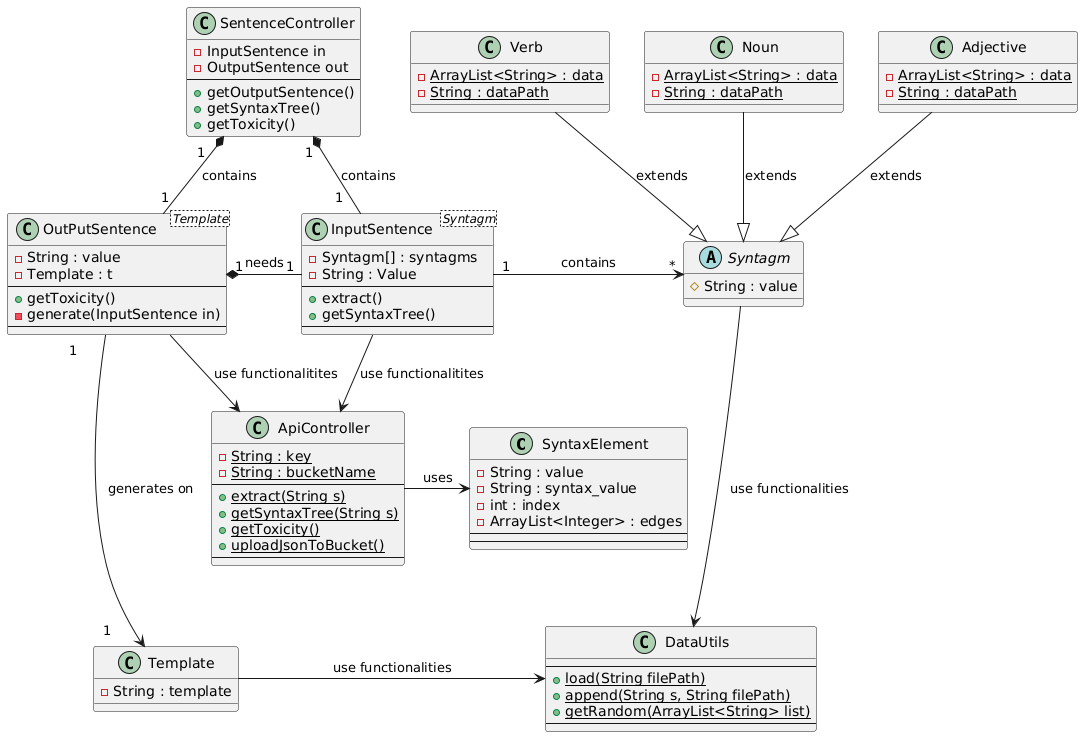
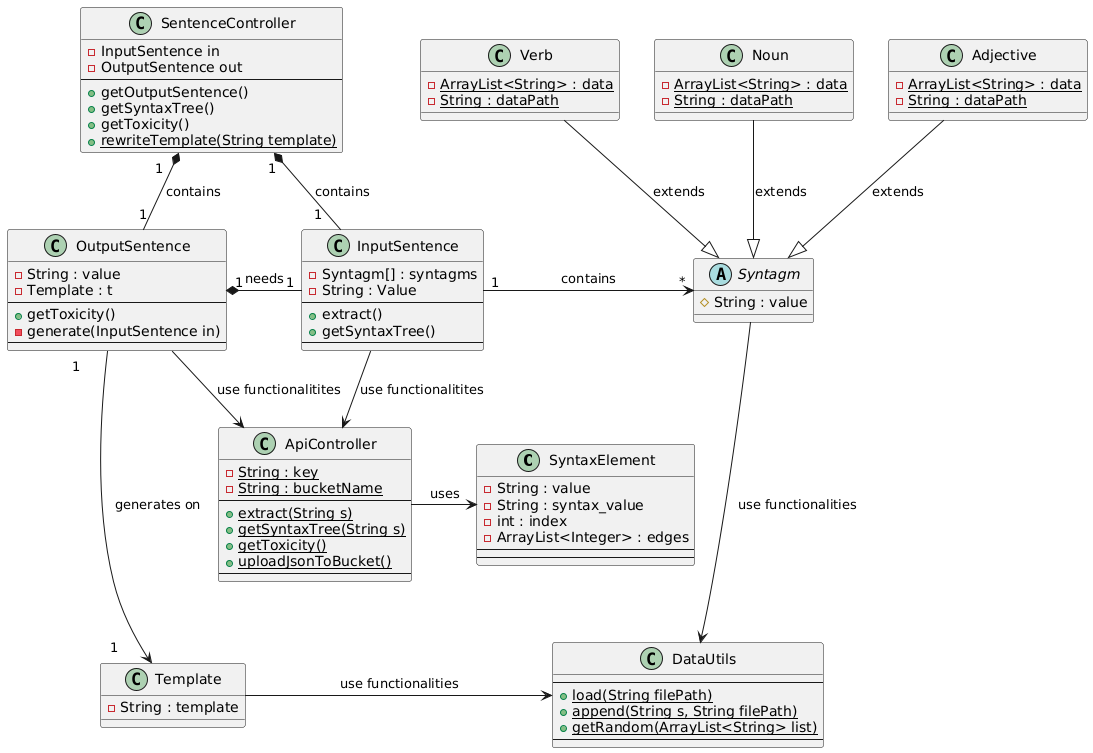
Updated design document and fixed diagrams

diff --git a/docs/Design document.md b/docs/Design document.md
@@ -1,0 +1,110 @@
+*Gruppo 63616E617A7A61, Elementi di ingegneria del Software*.
+
+# Design document - Nonsense generator
+
+## Index: 
++ ### [<ins>Domain model</ins>](#domain-model-1)
++ ### [<ins>Class diagram</ins>](#class-diagram-1)  
+    + [System description](#system-description)
++ ### [<ins>Sequence diagrams</ins>](#sequence-diagrams-1)
+    + #### [System sequence diagram](#system-sequence-diagram-1)
+    + #### [Internal sequence diagrams](#internal-sequence-diagrams-1)
+        + ##### [SentenceController](#sentencecontroller-1)
+        + ##### [InputSentence](#inputsentence-1)
+        + ##### [OutputSentence](#outputsentence-1)
+        + ##### [Initialization of built-in dictionary and template list](#initialization-of-built-in-dictionary-and-template-list-1)
+
+## *Domain model*
+![img](./Domain%20model/Domain%20model.png)
+
+#### Description:   
+>The user of Nonsense generator interacts directly with a UI layer. below it there are multiple controllers that forward the requests of the user to the logical components of the system and makes it so the data is formatted correctly when needed to be presented to the user.
+The majority of the actors are those that constitute the internal layer of the system that is responsable for the actual logical computation requiered to execute all operations.
+
+## *Class diagram*
+![img](./Class%20diagram/Class%20diagram.png)
+
+### System description:
+
++  > <ins>**Syntagm</ins>:**  
+Abstract class used to represent a syntagm of a sentence that is later categorized int a verb, noun or adjective. Syntagm stores a human readable word in its ***value*** field.
+Syntagm is mainly used in the <code>extract()</code> method in the ***InputSentence*** class to divide the syntagms of a given sentence.
+
++ > <ins>**Verb</ins>, <ins>Noun</ins>, <ins>Adjective</ins>:** 
+***Verb***, ***Noun*** and ***Adjective*** are all classes that extend the abstract class ***Syntagm*** and are used to provide an internal dictionary for the system.
+Each one of these classes contains a ***data*** of ArrayList<String> used to save a list of words loaded from a text file via the ***load(String filePath)*** provided by the utility class ***DataUtils***.
+The generation of a random word from the loaded list is supported in the constructor of these classes by using the ***getRandom(ArrayList<String> list)*** of class ***DataUtils*** should the new object be instantiated without a specific word.
+
++ > <ins> **ApiController:** </ins>
+Utility class that interacts directly with Google Cloud API by compiling and sending different types of requests based by instructions received from ***InputSentence*** and ***OutputSentence***.
+The class provides also the ability to log generated sentences in a json file that is stored in a cloud bucket via the method ***uploadjsonToBucket()***. 
+
++ > <ins> **SyntaxElement:** </ins>
+Class that represent a single syntactic element used in the creation of the syntax tree of the sentence. The class contains descriptive fields ***value*** and ***syntax_value***. The ***index*** field is meant to specify the position of a ***SyntaxElement*** in a ***ArrayList<SyntaxElement>*** while ***edges*** contains the positions of other nodes that form edges with the selected one.
+
++ > <ins> **DataUtils**: </ins>
+Utility class used to provide functionalities to lists of verbs, nouns, adjectives as well as templates. Its methods <code>load(String filePAth)</code> and <code>getRandom(ArrayList<String> list)</code> are used to initialize a list of string from a file and pick a random element from it. This class provides the functionality for saving new words in a text whose location is specified by the argument filePath in the method <code>append(String s, String filePath)</code>
+
++ > <ins> **Template:** </ins>
+Class used to manage a list of templates which are used when generating new sentences. Each object of type ***Template*** has an internal field <code>template</code> use to save the literal template in a human readable format.
+Templates are sentences which have their verbs, nouns, adjectives removed and replaced by %v, %n, %a respectively. This allows the system to recognize which type of word to use when filling a template to generate a sentence.
+
++ > <ins> **SentenceController:** </ins>
+Class used to manage interactins between an ***InputSentence*** and an ***OutputSentence*** base on which demands it gets from the UI layer.
+The methods it contains delegate the requiered operations to the individual classes.  
+***SentenceController*** provides the functionality requiered to extract the chosen template and rewrite it to be human-readable via the method <code>rewriteTemplate(String template)</code>.
+
++ > <ins> **InputSentence:** </ins>
+Class used to 
+The method <code>extract()</code> is called during initalization and returns an array of syntagms containing all categorized syntagms of the sentence provided by the user.
+The <code>***getSyntaxTree()***</code> method is used to get the syntactic tree of the given sentence by having ***ApiController*** sending a specific request to the Google Cloud Natural Language API.
+
++ > <ins> **OutputSentence:** </ins>
+Class that supports the generation of a template-based random sentence by utilizing a given ***InputSentence***.
+The generation of the sentence is coded via the private method <code>generate()</code> that executes operations on an ***InputSentence*** to extract its syntagms and uses them to fill a template that may be specified or picked randomly from the internal list of the system.  
+
+## **Sequence diagrams**
+
++ ### System sequence Diagram:
+![img](./Sequence%20diagrams/Diagrams/SystemSequenceDiagram.png)
+
+> Here are reported the main interactions between a User and the system. While a sentence is always requiered to create a generated sentence there are some additional options that the user may decide to use that affect how the system responds.
+
+### Internal sequence diagrams
+
++ ### <ins>**SentenceController**</ins>
+![img](./Sequence%20diagrams/Diagrams/SentenceController.png) 
+
+#### Description: 
+
+> This diagram illustrates the creation of ***SentenceCoontroller*** and shows the reliance this class has towards ***InputSentence*** and ***OutputSentence*** for generating a sentence and retrieving the requiered data from it. The main operations that are managed by ***SentenceController*** are:
+> + extraction of syntagms
+> + generation of a sentence
+> + creation of a syntactic tree
+> + calculation of the generated sentence toxicity  
+> 
+> These operation are shown in greater detail in later diagrams as they are implemented in ***InputSentence*** and ***OutputSentence*** while ***SentenceController*** only delegates work to these classes.
+
+
++ ### <ins>**InputSentence*</ins>*
+![img](./Sequence%20diagrams/Diagrams/InputSentence.png)
+
+#### Description: 
+
+> This diagram shows the steps executed by ***InputSentence*** during initialization to extract the syntagms from the given sentence by utilizing Functionalities provided by ***ApiController***. Each token received from the response given by the Google cloud Natural Language API is used to create a syntagm and categorize appropriately.
+Below is shown the internal working of the <code>getSyntaxTree()</code> method used to generate the syntactic tree from nodes of type ***SyntaxElement*** created from the sentence given by the user. 
+
++ ### <ins>**OutputSentence**</ins>
+![img](./Sequence%20diagrams/Diagrams/OutputSentence.png) 
+
+#### Description: 
+
+> The diagram shows the steps requiered to generate a random sentence from a template. This is done during the initialization of an object of type ***OutputSentence*** and requieres an ***InputSentence*** to provide the resulting sentence. **OutputSentence** saves verbs, nouns and adjectives of the provided sentence internally so that it can use them later while filling the template by replacing the placeholders.
+***OutputSentence*** is capable of generating more terms by utilizing the constructors of ***Verb***,***Noun*** and ***Adjective*** should the number of terms extracted from ***InputSentence*** be insufficient. 
+The getToxicity() functionality of ***OutputSentence*** is implemented by relying on ***ApiController*** to make a custom request to the server Google cloud server and returning the result as a number.
+
++ ### <ins>**Initialization of built-in dictionary and template list:**</ins>
+#### Description: 
+> The diagram shows the interactions between the classes that need some provided data to work properly and how ***DataUtils*** is used to retrieve that data and manipulate it.
+
+![DataInitialization](./Sequence%20diagrams/Diagrams/DataInitialization.png)
